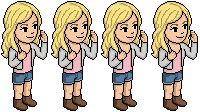
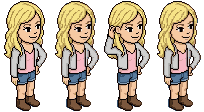
Penny: idle de Gemini (skill imagen vía OmniRoute)
Hoja nueva generada con Gemini Flash Image, extraída con --pick 2,4,3,4 a 2 fps.
El idle hecho por código queda en source/idle_code.png.

diff --git a/Assets BBTheory/idle_breathe.py b/Assets BBTheory/idle_breathe.py
@@ -1,0 +1,95 @@
+"""Idle con respiración y parpadeo, a partir de un solo cuadro quieto.
+
+El idle de Penny salió de un único cuadro de la hoja (`--pick 2,2,2,2`) y quedaba duro. Este script
+toma ese cuadro y arma un loop: de la cintura para arriba sube 1 px (respira) y en un cuadro cierra los
+ojos. Las piernas y las botas no se mueven, así que el ancla de los pies queda igual.
+
+Parte de anims/idle_orig.png (la primera vez copia anims/idle.png), escribe anims/idle.png, actualiza
+frames/fps en anims/idle.json, rearma el atlas y deja un GIF de prueba en anims/idle_preview.gif.
+
+    python -I "Assets BBTheory/idle_breathe.py"
+"""
+import json
+import shutil
+import subprocess
+import sys
+from pathlib import Path
+
+import numpy as np
+from PIL import Image
+
+HERE = Path(__file__).resolve().parent
+CHARS = HERE / "characters"
+TOOLS = HERE.parent / "Assets BBad" / "tools"
+SKIN = (246, 201, 162, 255)
+LASH = (7, 3, 3, 255)
+
+# waist: primera fila que no se mueve (arriba del short). eyes: (x0, x1, y0, y1) de cada ojo abierto,
+#   que se pinta de piel, y la fila donde va la rayita del ojo cerrado.
+# frames: (sube 1 px, parpadea) por cuadro; 8 cuadros a 4 fps = un respiro por segundo, un parpadeo cada 2 s.
+IDLE = {
+    "penny": {
+        "waist": 72,
+        "eyes": [((21, 27, 26, 31), 29), ((32, 37, 26, 28), 27)],
+        "frames": [(0, 0), (1, 0), (1, 0), (0, 0), (0, 1), (1, 0), (1, 0), (0, 0)],
+        "fps": 4,
+    },
+}
+
+
+def blink(f, eyes):
+    for (x0, x1, y0, y1), line in eyes:
+        f[y0:y1 + 1, x0:x1 + 1] = SKIN
+        f[line, x0:x1 + 1] = LASH
+    return f
+
+
+def breathe(f, waist):
+    out = f.copy()
+    out[:waist - 1] = f[1:waist]
+    return out
+
+
+def main():
+    sys.stdout.reconfigure(encoding="utf-8")
+    name = sys.argv[1] if len(sys.argv) > 1 else "penny"
+    cfg = IDLE[name]
+    anims = CHARS / name / "anims"
+    orig = anims / "idle_orig.png"
+    if not orig.exists():
+        shutil.copy(anims / "idle.png", orig)
+    js = anims / "idle.json"
+    info = json.loads(js.read_text(encoding="utf-8"))
+    fw, fh = info["frame_size"]
+    base = np.array(Image.open(orig).convert("RGBA"))[:, :fw]
+
+    frames = []
+    for up, closed in cfg["frames"]:
+        f = base.copy()
+        if closed:
+            f = blink(f, cfg["eyes"])
+        if up:
+            f = breathe(f, cfg["waist"])
+        frames.append(f)
+    Image.fromarray(np.concatenate(frames, axis=1)).save(anims / "idle.png")
+
+    info.update(frames=len(frames), fps=cfg["fps"], loop=True)
+    js.write_text(json.dumps(info, indent=2), encoding="utf-8")
+
+    scale = 6
+    big = [Image.fromarray(f).resize((fw * scale, fh * scale), Image.NEAREST) for f in frames]
+    gif = []
+    for im in big:
+        bg = Image.new("RGBA", im.size, (235, 235, 240, 255))
+        bg.alpha_composite(im)
+        gif.append(bg.convert("RGB"))
+    gif[0].save(anims / "idle_preview.gif", save_all=True, append_images=gif[1:],
+                duration=1000 // cfg["fps"], loop=0)
+
+    subprocess.run([sys.executable, "-I", str(TOOLS / "extract_anim.py"), name, "--rebuild",
+                    "--theme", "big_bang"], check=True)
+    print(f"{name} idle: {len(frames)} cuadros a {cfg['fps']} fps -> {anims / 'idle.png'}")
+
+
+if __name__ == "__main__":
+    main()

diff --git a/Assets BBTheory/BIG_BANG.md b/Assets BBTheory/BIG_BANG.md
@@ -248,7 +248,7 @@ Integración: `compose_scene.py ... --effects [--time 3]` (el rol sale de `sheld
 - [x] Probar escala sobre el fondo: ×1.
 - [ ] Animaciones de la tabla de arriba. Hechas: Sheldon `walk` (con las piernas de la de Leonard, recoloreadas a su pantalón y zapatos: `walk_from_leonard.py`, mismo ciclo de 4 cuadros; la de 8 cuadros, hecha con `walk_legs.py` (borrado), quedó en `source/walk_8f.png`), `walk_back` (la hoja traía la misma zancada en los 4 cuadros y parecía deslizarse: `walk_cycle.py` arma zancada → paso → zancada → paso moviendo la pierna de atrás; el original queda en `anims/walk_orig.png`), `idle`, `sit`, `type`, `write`, `think` y `read`, todos sus roles (prueba: `Assets BBad/tools/walk_preview.py Sheldon door couch --theme big_bang` → `walk_sheldon.gif`; con `--anim type` / `--anim write` termina trabajando). `type` tiene `lower: 18` en `animations`: se dibuja más abajo para que el teclado apoye en el escritorio. `type` se rehizo de frente (hoja nueva, `--pick 1,2,3,2`: el cuadro 4 tiene otra cara); `animations.type.shift_by_character` la corre 10 px a la izquierda (Sheldon y Leonard) para centrarla en la silla, `--shift N` en `extract_anim.py`. Penny ya cae centrada.
   - Leonard (hojas en `characters/leonard/source/`, el `pick` queda en cada `anims/*.json`): `walk` (`--pick 2,3,2,3`: el 1 está de frente y el 4 de perfil), `walk_back`, `idle` (`--pick 2,2,3,2`), `think` (`--pick 2,3,4,3`), `sit`, `read`, `type` y, provisorias, `write` (`--pick 4,4,4,4`: es el único cuadro de espaldas, queda quieto) y `look` (`--pick 2,3,2,3`, de 3/4 de frente aunque `window` mira arriba-derecha). Atlas generado. `type` (rehecha de frente, `--pick 1,2,3,2`; la hoja vino a otra resolución y `extract_anim.py` forzó la celda de la referencia, el resultado se ve bien) usa `lower: 24` (antes 10; de frente y sin teclado flotaba sobre el escritorio) (`animations.type.lower_by_character`, o `--lower N` en `extract_anim.py`): su teclado está más abajo en la hoja que el de Sheldon. La hoja de referencia tenía el contorno teñido de magenta: se limpió (sheet y 4 vistas) y `extract_anim.py` ya no usa colores magenta de la referencia como destino. Se probó con `walk_leonard_*.mp4` y `test_*_leonard.png` (borrados en la limpieza). Regenerar: `write` (4 cuadros de 3/4 de espalda escribiendo, como la de Sheldon), `look` (de espalda mirando por el telescopio) y, si se quiere un paso completo, `walk` (4 cuadros de 3/4).
-  - Penny (hojas en `characters/penny/source/`, prompts en `characters/penny/PROMPTS.md`): `walk`, `walk_back`, `idle` (`--pick 2,2,2,2`, provisoria: es el único cuadro de 3/4, el que se acomoda el pelo; los otros estaban de frente, espalda y perfil), `think` (`--pick 2,3,4,3`), `sit` (con copa de vino), `read` (revista), `type` (con el celular en vez del teclado; queda bien en la silla, el escritorio tapa las piernas), `argue`, `celebrate` (`--keep-y`, para el salto), `knock` y `write` (de espalda pero con el celular en vez del marcador; de lejos frente al pizarrón se lee bien). Atlas generado. Falta `look` (de espalda, mirando por el telescopio). `idle` queda así (decidido).
+  - Penny (hojas en `characters/penny/source/`, prompts en `characters/penny/PROMPTS.md`): `walk`, `walk_back`, `idle` (hoja nueva de Gemini generada con la skill `imagen`, `source/idle_gemini.jpg`, `--pick 2,4,3,4 --fps 2`: el cuadro 1 vino de frente; cambia el peso de cadera y en el 3 se acomoda el pelo. Antes: un solo cuadro de la hoja vieja (`anims/idle_orig.png`) animado con `idle_breathe.py`, 8 cuadros a 4 fps que respiran y parpadean; esa versión queda en `source/idle_code.png/.json`), `think` (`--pick 2,3,4,3`), `sit` (con copa de vino), `read` (revista), `type` (con el celular en vez del teclado; queda bien en la silla, el escritorio tapa las piernas), `argue`, `celebrate` (`--keep-y`, para el salto), `knock` y `write` (de espalda pero con el celular en vez del marcador; de lejos frente al pizarrón se lee bien). Atlas generado. Falta `look` (de espalda, mirando por el telescopio).
   - Leonard hobbit: referencia (`extract_sheet.py --order front,three_quarter,back,side --height 110`: la grilla salía en 4,2 y quedaba gigante; mide 104, un poco más bajo que Leonard), `idle` (`--pick 2,2,3,2`) `walk_back` (`--pick 1,2,3,2`), `walk` y `ring_on` (4 cuadros, sin loop, en `theme.json` → `animations`): todas sus hojas listas, atlas generado. Escena completa en `wallpaper/public/js/sim/scenes.js` (§6).
 - [x] Efectos por código (§7): tele, pizarrón, ventanas (nubes / luces), vapor de la comida china y pantallas, en `effects.py` + `scene.effects`; opcionales con `--effects` en `compose_scene.py` y `walk_preview.py`.
 - [ ] Al tener fondos: `config.json` → `"theme": "big_bang"`.

diff --git a/ESTADO.md b/ESTADO.md
@@ -1,5 +1,40 @@
 # Estado del proyecto: escena de IAs (fondo de pantalla animado)
 
+## 2026-11-02: idle de Penny e imágenes con Gemini
+
+**Qué se hizo**
+- Idle de Penny animado por código: `Assets BBTheory/idle_breathe.py` (8 cuadros a 4 fps, respira 1 px de la cintura para arriba y parpadea cada 2 s). Original en `characters/penny/anims/idle_orig.png`, GIF en `anims/idle_preview.gif`, atlas regenerado, nota en `BIG_BANG.md`. Sin commit. No probado dentro del wallpaper.
+- Gemini Flash Image (`agy/gemini-3.1-flash-image`) genera la imagen, pero OmniRoute la tiraba: el colector de Antigravity (`open-sse/executors/antigravity/sseCollect.ts`) solo junta texto y tool calls, ignora `inlineData`.
+- Parche aplicado a OmniRoute 3.8.51 con `C:\Users\Casita\.claude\skills\imagen\scripts\patch_omniroute.py` (5 chunks de `dist/.build/next/server/chunks`; originales en `skills\imagen\omniroute_backup\3.8.51\`, `--restore` vuelve atrás). La imagen viaja en el texto como `![image](data:...)`. Al actualizar OmniRoute hay que volver a correrlo.
+- Script nuevo `skills\imagen\scripts\generar_imagen.ps1 -Prompt ... -Ref a.jpg,b.webp -Out ruta_sin_ext` (exit 0 ok, 10 sin imagen, 3 OmniRoute caído, 2 args). Falta el `SKILL.md` de la skill `imagen`.
+
+- Probado: `generar_imagen.ps1` con OmniRoute reiniciado devuelve la imagen (exit 0, ~1 min). Idle de Penny de Gemini en `characters/penny/source/idle_gemini.jpg`: Penny bien, cuadro 1 de frente (los otros 3 en 3/4, el 3 se acomoda el pelo) y sombras bajo los pies. Sin extraer.
+- `SKILL.md` de `imagen` escrito (uso por iniciativa para hojas de sprites, fondos y props; cómo re-parchear OmniRoute).
+
+**Hipótesis vigentes**
+- Ninguna nueva.
+
+**Descartado**
+- `/v1/images/generations`: con `agy/` rechaza el nombre, con `antigravity/` da Internal error. `requestType: image_gen` y `modalities` no cambian nada. Codex image sin cuota hasta el 16/11. AI Horde no acepta referencias.
+
+**Próximo paso**
+- Mirarlo en Lively. Commit cuando el usuario diga.
+- (Historia) Idle de Gemini extraído (`--pick 2,4,3,4 --fps 2`, 51×112, alturas iguales a la referencia) y guardado **fuera** de `anims/` (`source/idle_gemini.png/.json`) para no meterlo al atlas; atlas restaurado. Comparación lado a lado (código izq., Gemini der.) en `source/idle_compare.gif`.
+- El usuario eligió el de Gemini: ya es `anims/idle` (`--pick 2,4,3,4 --fps 2`), atlas y bundle reexportados. El de código quedó en `source/idle_code.png/.json`. Probado en la demo del navegador: Penny parada con el idle nuevo, sin errores. Nota en `BIG_BANG.md`. Sin commit.
+
+## 2026-11-01: repo para GitHub
+
+**Qué se hizo**
+- `git init` en `E:\ProyectosIA` (rama `main`). Un commit con identidad `tbittech <96559059+tbittech@users.noreply.github.com>`, solo en este repo.
+- Archivos nuevos: `README.md`, `LICENSE` (MIT para el código; el arte es fan art no comercial, fuera de la MIT, con aviso de Warner/CBS) y `.gitignore`. Quedan afuera `.claude/`, `Assets BBTheory/referencias/` (fan art de otros artistas), `Assets BBad/themes/` y el estado del servidor.
+- GitHub CLI instalado (`C:\Program Files\GitHub CLI\gh.exe`), logueado como tbittech. Repo público creado y subido: https://github.com/tbittech/living-4a-wallpaper (remote `origin`).
+
+**Hipótesis vigentes**
+- Los fondos (`backgrounds/*.jpg`) se generaron con IA. No está confirmado.
+
+**Próximo paso**
+- Si algún fondo se bajó de internet, sacarlo del repo. Cambios futuros: `git add -A && git commit && git push`.
+
 ## 2026-11-01: instalador portable
 
 **Qué se hizo**
